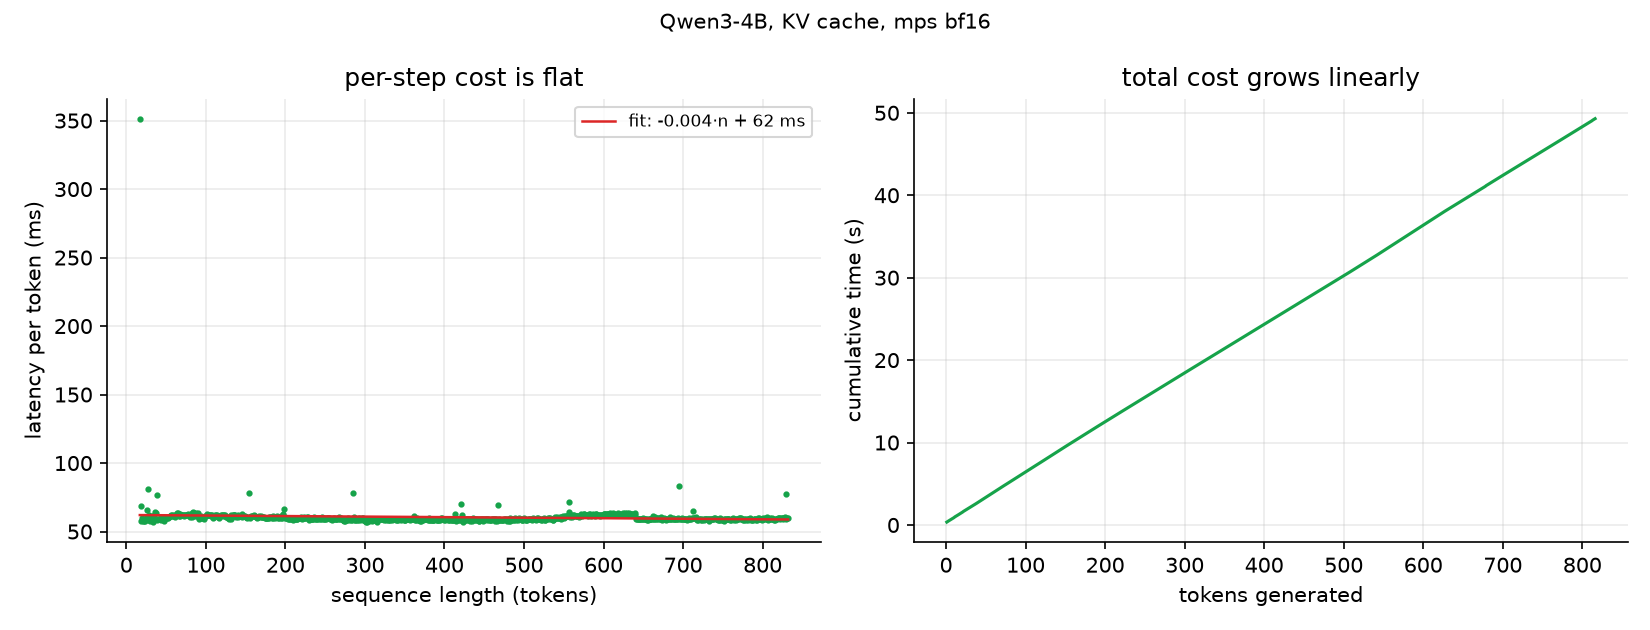
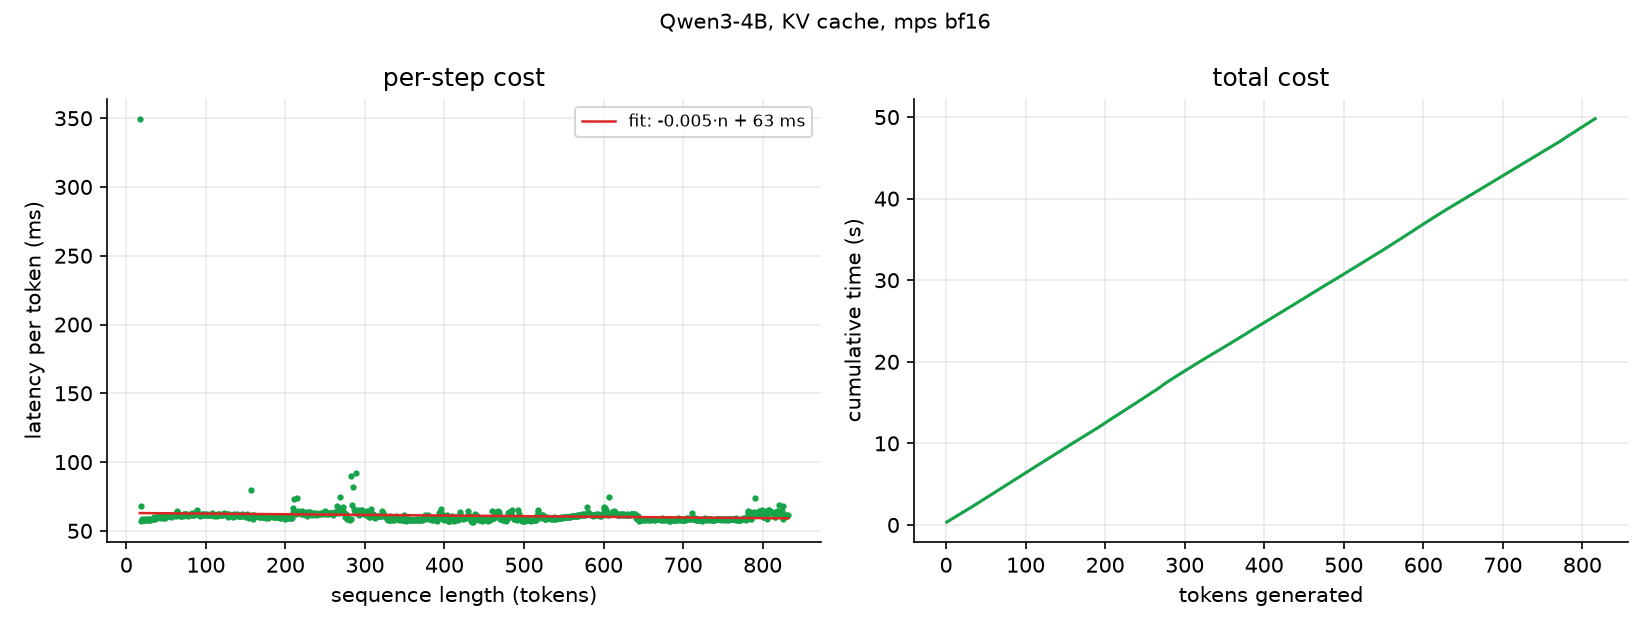
reran

diff --git a/bench/day_2/with_kv_cache.py b/bench/day_2/with_kv_cache.py
@@ -71,12 +71,12 @@ def main():
     ax1.plot(lengths, slope * lengths + intercept, "-", lw=1.2, color="#dc2626",
              label=f"fit: {slope:.3f}·n + {intercept:.0f} ms")
     ax1.set(xlabel="sequence length (tokens)", ylabel="latency per token (ms)",
-            title="per-step cost is flat")
+            title="per-step cost")
     ax1.legend(fontsize=8)
 
     ax2.plot(np.arange(1, len(cumulative) + 1), cumulative, lw=1.5, color="#16a34a")
     ax2.set(xlabel="tokens generated", ylabel="cumulative time (s)",
-            title="total cost grows linearly")
+            title="total cost")
 
     for ax in (ax1, ax2):
         ax.grid(alpha=0.25)
